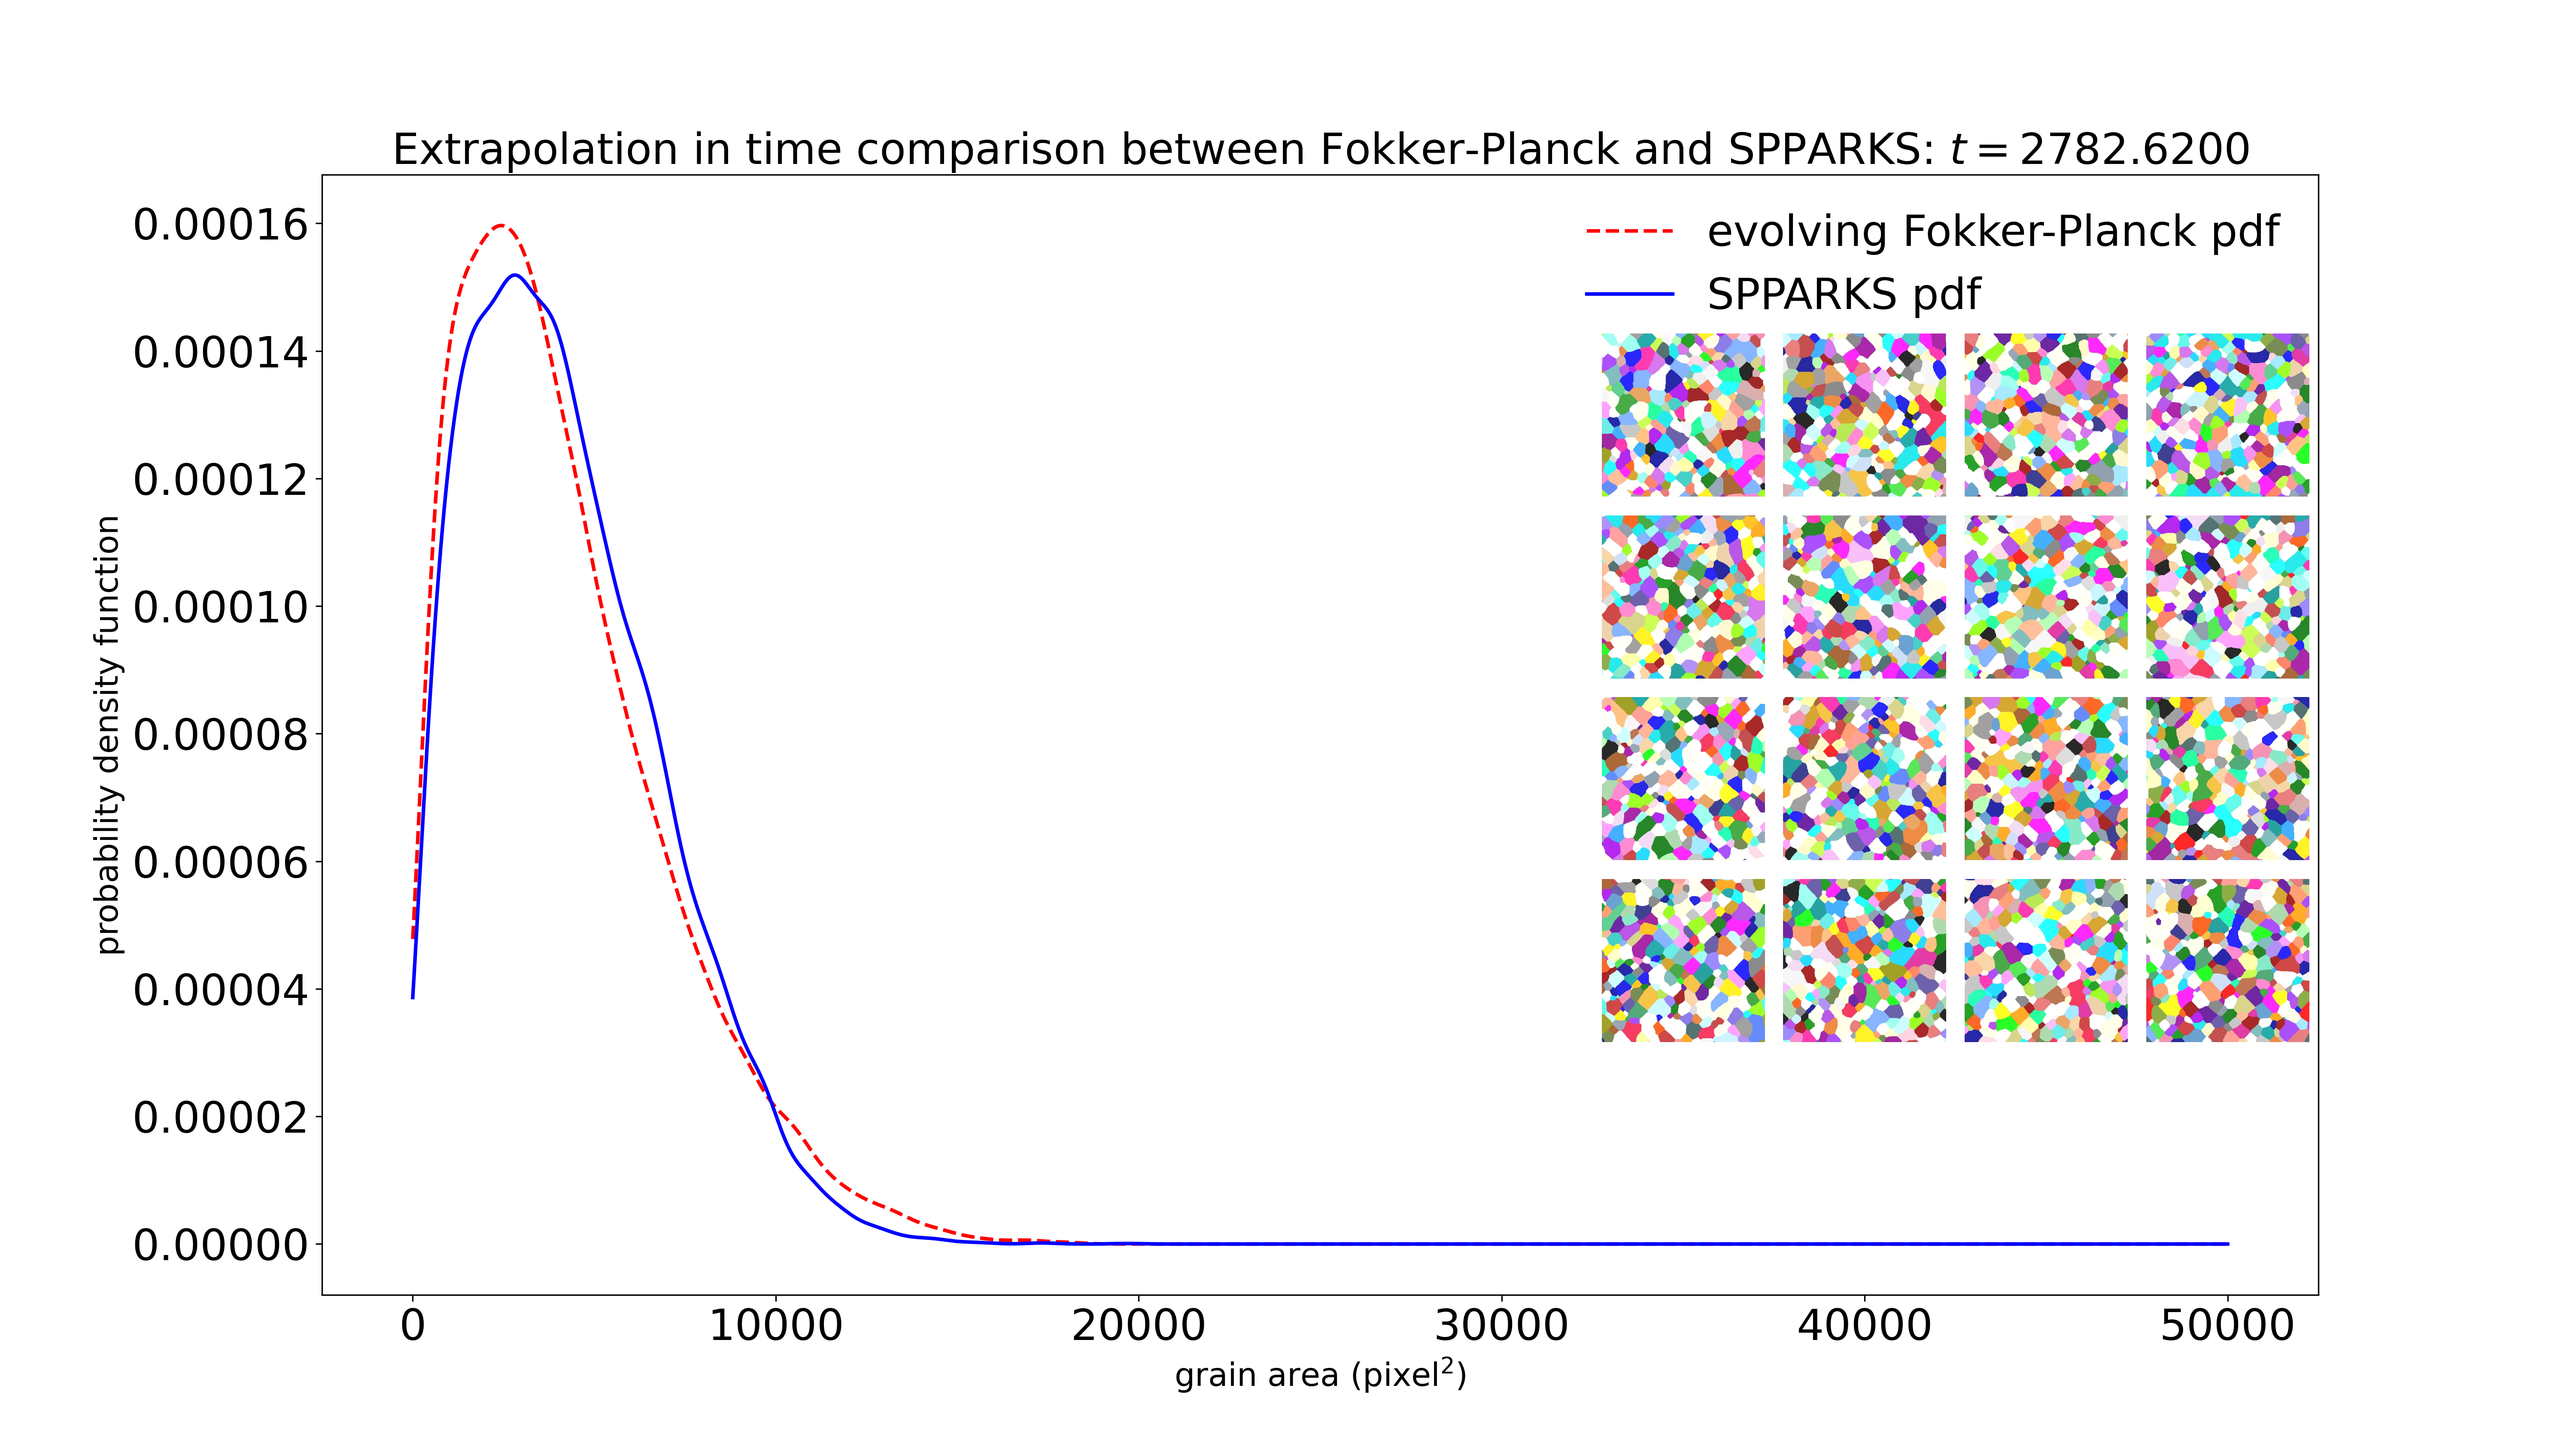
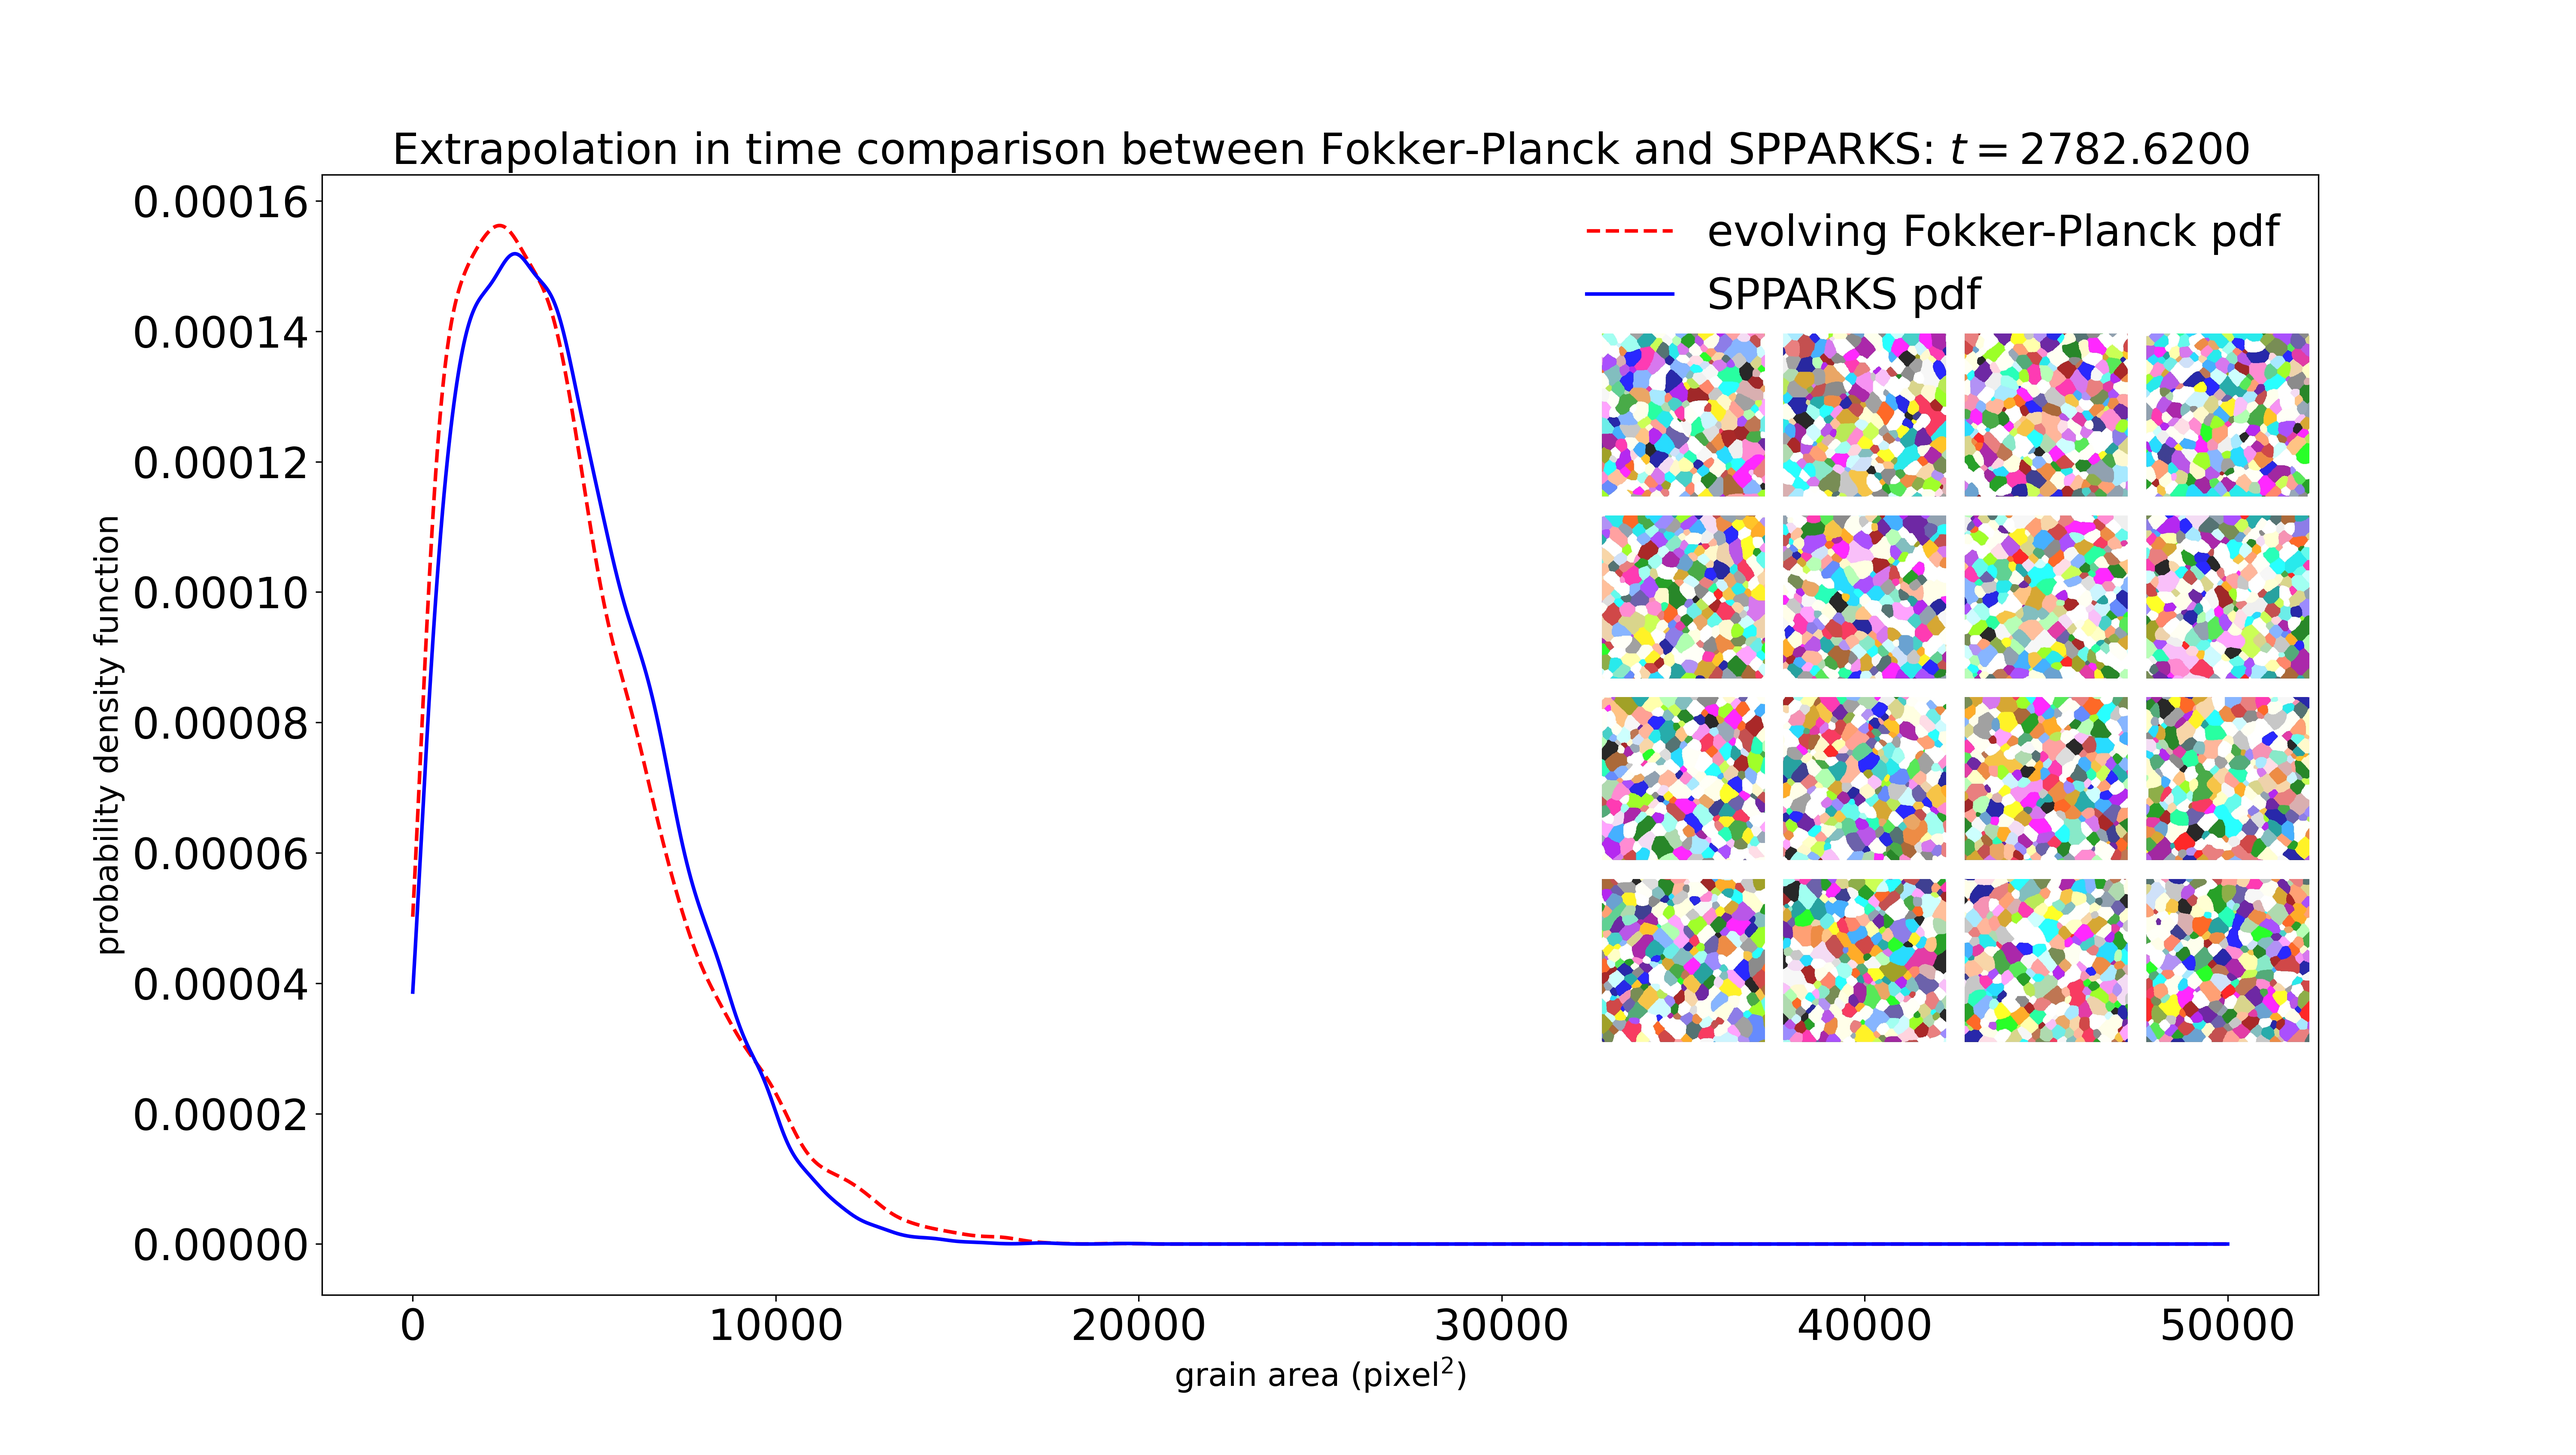
update ggComparison*.png

diff --git a/fp1d/model/compareSpkDensity3.py b/fp1d/model/compareSpkDensity3.py
@@ -64,7 +64,7 @@ for i in range(len(iterationList)):
 	# initPlt, 			= plt.plot(x, pInit, 'ro:', linewidth=2, label='first training pdf (kMC: 46.5 mcs)')
 	# calibratedPlt, 	= plt.plot(x, pCalibrated, 'mo-.', linewidth=2, label='last training pdf (kMC: 599.5 mcs)')
 	# finalPlt, 		= plt.plot(x, pFinal, 'go--', linewidth=2, label='last testing pdf (kMC: 16,681.1 mcs)')
-	currentPlt, 	= plt.plot(x, pCurrent, c='red', linestyle='--', linewidth=4, label='evolving Fokker-Planck pdf')
+	currentPlt, 	= plt.plot(x, pCurrent, c='red', linestyle='--', linewidth=4, label='Fokker-Planck pdf')
 	spkCurrentPlt,  = plt.plot(x, pSpkCurrent, c='blue', linestyle='-', linewidth=4, label='SPPARKS pdf')
 
 
